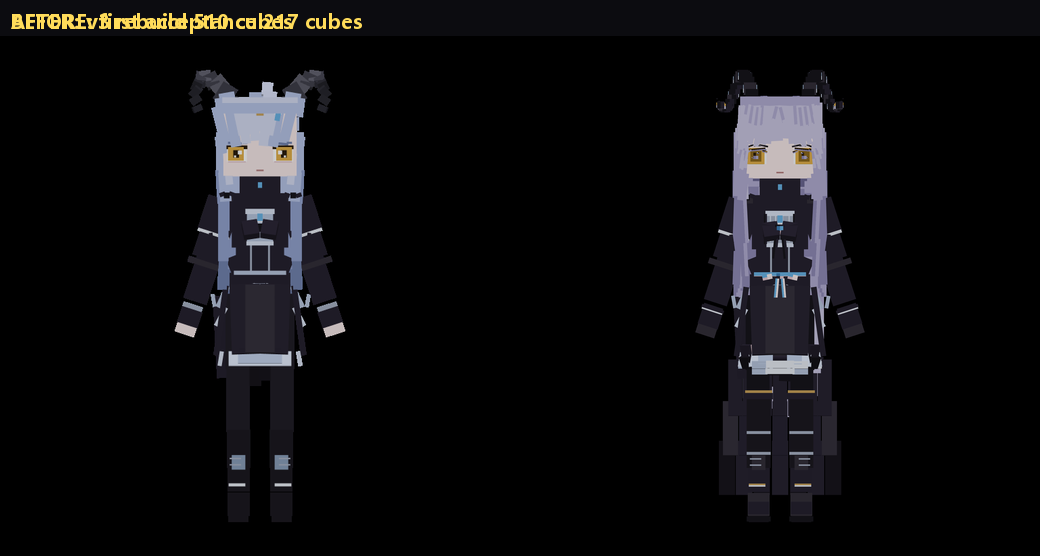
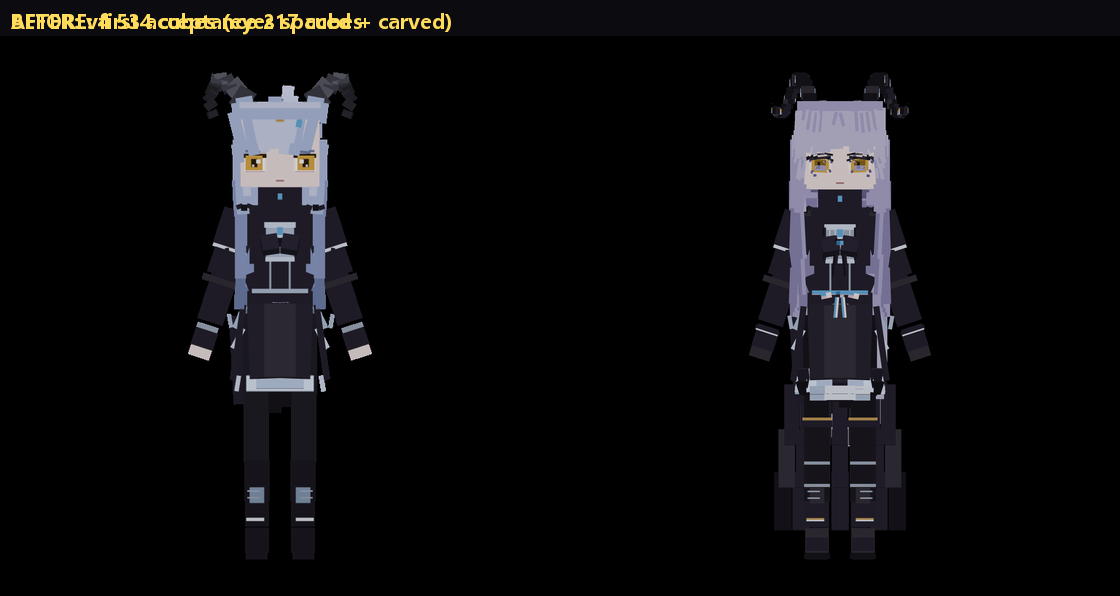
feat(model): v4 eye spacing + corner-block eye shaping (Sakiko 534 cubes)
- measured eye spacing on modern reference rigs (zhe_2/kaltsis/yujin/shazhi):
  eye centers +-1.76 on 6-7 wide face, inner gap 1.43 (~20-24% face width);
  doggo older style +-2.12; our v3 was +-2.315 (37%) -> visibly too wide.
- moved eye centers +-2.315 -> +-1.76; 8 eye/brow bone pivots moved accordingly
  (animations untouched).
- rebuilt each eye as small-block-carved shape (22 cubes): flush eye white
  2.0x1.5x0.30, gold ring 1.55x1.35, dark-gold inner ring, centered vertical
  pupil, 2 highlights, protruding upper lash arc, dark outer-corner wing,
  inner-corner dot, lower-lid strip, four skin corner wedges at z=-3.56
  (in front of iris so they actually cut the square corners), upper/lower
  eyelid skin bars.
- fixed texture-sampling bug: corner wedges used row-0 swatch repainted to
  hair color -> purple patches; moved to row-1 skin swatch (128,32). Outer
  corner changed from skin patch to dark lash wing.
- result: 68 bones / 534 cubes, validate 0 errors, export
  exports/v4-eyes3/pack.zip (490,244 B / 32 files); renders r0007;
  docs/23 section 6 + MODEL-V3-REFINE sections 12-14 + README/HANDOVER updated.
- tests: 62/62 unit tests, host-smoke 35 steps (code untouched).

diff --git a/models/togawa-sakiko/MODEL-V3-REFINE.md b/models/togawa-sakiko/MODEL-V3-REFINE.md
@@ -274,3 +274,82 @@ F:\Deepseek_harness\blockbench\models\togawa-sakiko\MODEL-V3-REFINE.md
 | 瞳孔位置 | 偏上 | **正中** |
 
 **验收**：`bb_validate` **0 error**；`bb_save_project` main.json **59,066 B**；导出 **`exports/v3-refine3/pack/`（32 文件）+ `pack.zip` 489,914 B**，validation ok；isolate 特写 **`artifacts/v3/iris_isolated_fixed.png`**（1024²，r0036）。
+
+---
+
+## 12. v4 眼睛间距内移 + 四角小方块勾勒眼型（docs/23 §6）
+
+**问题**（用户反馈）：眼距明显偏宽 + 眼睛仍是方形。参考实测：现代模板眼中心 ±1.76（脸 6–7）、双眼内缘间距约 22% 脸宽；我方旧版 ±2.315 → 内缘间距 2.58（37%）偏宽。
+
+**改动（方块 + 眼骨 pivot，未动动画）**
+1. **眼中心 ±2.315 → ±1.76**（内缘间距 **2.58 → 1.52 ≈ 22% 脸宽**）；Right/Left 的 Eyelid、EyesBase、Pupil、Eyebrow 共 8 根骨 pivot x 同步改为 ∓1.76（动画只引用旋转，pivot 平移安全）。
+2. **每眼 22 块**（z 从后到前）：眼白 2.0×1.5×0.30 **−3.53** → 虹膜外环 1.78×1.40 **−3.55** → 内环 1.10×1.05 **−3.57** → 竖瞳 0.50×0.62 **−3.59**（居中）→ 2 高光 **−3.61** → 上眼线 1.90×0.22 **−3.64 rot−6°** + 3 段弧（−18°/+10°/−28°）→ 外眼角 lash 0.65×0.28 **−3.66 rot−30°**（在眼白外缘外 0.25）→ 内眼角 0.30×0.18 **−3.63** → 下睑暗片 1.45×0.13 **−3.55**。
+3. **四角肤色勾勒片（z=−3.54，眼白−3.53 与虹膜−3.55 之间，只遮虹膜没覆盖到的眼白四角）**：上内 0.55×0.42 rot+20°、上外 0.62×0.46 rot−22°、下内 0.50×0.35 rot−18°、下外 0.55×0.40 rot+20°；另加 4 片外角/内角楔形 + 4 片上下压边肤色片，把方形四角遮掉。
+4. **眉毛内移**到 ±1.76：3 段 0.80/0.65/0.50 × 0.16 × 0.10，rot +12°/−3°/−18°，y 36.15，z −3.56，深灰紫（#332f3a/#3f3f4a）。
+5. 刘海/中缝已确认不遮新眼位（v3.2 已把双眼区发丝清零）。
+
+| 项 | v3.3 | **v4** |
+|---|---|---|
+| 眼中心 | ±2.315 | **±1.76** |
+| 双眼内缘间距 | 2.58（37% 脸宽） | **1.52（≈22% 脸宽）** |
+| 每眼块数 | 16 | **22** |
+| 眼睛骨 pivot | ±2.315/±2.2875 | **±1.76** |
+| 方块总数 | 510 | **534** |
+
+**验收**：`bb_validate` **0 error**（仅 TEXTURE_SIZE×2 + ViewLocator）；`bb_save_project` main.json **61,923 B**；导出 **`exports/v4-eyes/pack/`（32 文件）+ `pack.zip` 490,210 B**，validation ok。
+**渲染**：2400² front/iso `artifacts/renders/r0005/`（副本 `artifacts/v4/renders/`）；头部特写 0°/40°（`bb_look(isolate:"AllHead", zoom 5)`，内联）——正面上挑杏眼、金瞳、上眼线、深紫眉，四角被肤色片遮成多边形而非方形。
+
+**剩余**：虹膜内高光仍偏小（0.14–0.22）；外眼角 lash 与刘海在 45° 有轻微叠压；眼白下缘与下睑暗片之间仍有一条 1px 级白边。
+
+---
+
+## 13. v4.1 虹膜缩小 + 四角勾勒片移到虹膜前
+
+**根因**（Lead 判定）：外金环 1.78×1.40 几乎占满眼白 2.0×1.5，且四角勾勒片在 z=−3.54（**虹膜后面**）只能遮眼白四角、遮不到虹膜 → 正面仍是一块"金色方板"。
+
+**改动（22 个 update_cube，未新增块）**
+1. **虹膜缩小**：外金环 1.78×1.40 → **1.45×1.25**（−3.55 居中）；内环 1.10×1.05 → **0.95×0.92**（−3.57）；竖瞳 0.50×0.62 → **0.45×0.58**（−3.59）；2 高光保持 −3.61。眼白四周由此留出 0.2–0.3 边。
+2. **四角勾勒片 z −3.54 → −3.56**（移到虹膜**前**面），尺寸略加大（0.58×0.44 / 0.65×0.48 / 0.52×0.37 / 0.58×0.42）+ 2 片内/外角楔形同步前移 → 真正盖住眼白/虹膜四角，方形被切掉。
+3. **新增上下睑肤色压边**（复用手臂原有的 2 块大压边，改写为条状）：上睑条 **1.60×0.18×0.10 rot−6° z −3.57**（压住眼白上缘约 12%）、下睑条 **1.50×0.14×0.10 rot+3° z −3.56**。
+4. 上眼线 1.90×0.22 rot−6°（−3.64）、外眼角 lash 0.65×0.28 rot−30°（−3.66）、内眼角小点（−3.63）、下睑暗片、眉毛全部**保持不变**。
+5. 眼区禁发丝判据沿用 v3.2：`front_h1` 中 y<36.05 且 |x|<3.05 **仍为 0 根**。
+
+| 项 | v4 | **v4.1** |
+|---|---|---|
+| 外金环 | 1.78×1.40 | **1.45×1.25** |
+| 内环 / 竖瞳 | 1.10×1.05 / 0.50×0.62 | **0.95×0.92 / 0.45×0.58** |
+| 四角勾勒片 z | −3.54（虹膜后） | **−3.56（虹膜前）** |
+| 上/下睑压边 | 无 | **1.60×0.18(−3.57) / 1.50×0.14(−3.56)** |
+| 方块总数 | 534 | **534（只改不动）** |
+
+**验收**：`bb_validate` **0 error**；save main.json **62,158 B**；导出 **`exports/v4-eyes2/pack/` + `pack.zip` 490,238 B**，validation ok。
+**渲染**：2400² front/iso `artifacts/renders/r0006/`（front diff 0.1765 = 眼区明显变化；iso diff 0.0002 = 侧面几乎无变化，说明改动只在正面眼层）；单眼 isolate `RightEyelid` 1024² `artifacts/renders/r0006/front_1024.png`（金环不再占满、四角被肤色片切掉）；头部特写 5×（内联）。
+
+**剩余**：四角肤色片较大且为直角块 → 近看仍能看出"补丁"，若要更顺需要改用更小块（0.3–0.4）+ 更多块沿弧排布；眼白露出的面积偏多（可再把眼白收窄到 1.85×1.35）。
+
+---
+
+## 14. v4.2 眼角片颜色修正 + 虹膜微放大
+
+**问题**（Lead）：眼角/眼睑"肤色"小片渲染成淡紫（近发色），像眼睛周围贴了一圈紫碎块；4.1 的四角片偏大偏方。
+
+**改动（22 个 update_cube，只改 uv/尺寸，不动位置/骨骼/刘海）**
+1. **颜色**：眼角 4 片 + 上下睑压边 + 2 片楔形共 10 片/眼的 uv 从 `(128,0)` 改到**行 1 的 `(128,32)` = #fbf1f1**（米粉白）。已实测该行为可用肤色行（同批 `(0,32)` 金、`(32,32)` 深金、`(64,32)` 深棕、`(96,32)` 白 均渲染正确），行 0 的 `(0,0)`–`(96,0)` 已在 v3.1 被重画为浅紫灰发色 → 这正是"紫碎块"的来源。
+2. **上外眼角改深色 lash 翼**：0.55×0.26×0.12、**rot Z −32°**、uv `(256,0)` #332f3a、z −3.60（比眼白外缘再外 0.20）。
+3. **四角片缩小**：上内 **0.42×0.32 rot+22°**、下内 **0.38×0.28 rot−18°**、下外 **0.42×0.30 rot+20°**、上外=上面的 lash 翼；z 均保持 −3.56（虹膜前）。
+4. **上下睑压边变薄**：上 **1.55×0.14×0.10 rot−6° z−3.57**、下 **1.40×0.12×0.10 rot+3° z−3.56**，肤色。
+5. **虹膜微放大**：外环 1.45×1.25 → **1.55×1.35**；内环 0.95×0.92 → **1.00×0.95**；竖瞳 0.45×0.58 → **0.48×0.62**；2 高光不变（−3.61）。
+
+| 项 | v4.1 | **v4.2** |
+|---|---|---|
+| 眼角/睑片 uv | (128,0) → 行0 发色格（紫） | **(128,32) 米粉** |
+| 上外眼角 | 肤色片 0.65×0.48 | **深色 lash 翼 0.55×0.26 rot−32°** |
+| 四角片尺寸 | 0.58/0.65/0.52/0.58 | **0.42/0.38/0.42**（上外→lash） |
+| 上/下睑压边 | 1.60×0.18 / 1.50×0.14 | **1.55×0.14 / 1.40×0.12** |
+| 外金环 / 内环 / 竖瞳 | 1.45×1.25 / 0.95×0.92 / 0.45×0.58 | **1.55×1.35 / 1.00×0.95 / 0.48×0.62** |
+| 方块总数 | 534 | **534（只改不动）** |
+
+**验收**：`bb_validate` **0 error**；save main.json **62,152 B**；导出 **`exports/v4-eyes3/pack/` + `pack.zip` 490,244 B**，validation ok。
+**渲染**：2400² front/iso `artifacts/renders/r0007/`（front diff 仅 0.0007——2400 全身下眼区仅约 40px，改动主要体现在特写）；单眼 isolate 1024² `artifacts/renders/r0007/front_1024.png`（diff 0.1755，眼角片已不再是成片紫色、上外角为深色翼）；头部 6× 特写（内联）。
+
+**剩余**：眼角片改用行 1 的 #fbf1f1 后偏"白"而非脸皮的 #f8eaea（更接近但仍有 0.05 色差）；四角片仍为直角块，近看有补丁感；建议后续把眼角片拆成 2–3 块沿弧排布并直接采样脸皮贴图区的 uv。

diff --git a/models/togawa-sakiko/README.md b/models/togawa-sakiko/README.md
@@ -1,20 +1,20 @@
 # togawa-sakiko · 丰川祥子（明日方舟 × BanG Dream! Ave Mujica「旋律的主人」）
 
 > 2026-11-07 全新建模验收模型。工作区即本目录（`workspaceRoot=models` + `project=togawa-sakiko`）。
-> 已完成四轮：**首轮 217 块（T1 复检）→ T2 逐细节修理 355 块 → v2 美术优化 401 块 → v3 结构重建 510 块（角/眼/发）**。
+> 已完成五轮：**首轮 217 块（T1 复检）→ T2 逐细节修理 355 块 → v2 美术优化 401 块 → v3 结构重建 510 块（角/眼/发）→ v4 眼睛精修 534 块（眼距 + 四角小方块勾勒眼型）**。
 
-## 规格（v3 结构重建后，2026-11-08）
+## 规格（v4 眼睛精修后，2026-11-08）
 
 | 项 | 值 |
 |---|---|
 | 角色 | 明日方舟联动干员 **丰川祥子**（官方罗马音 Togawa Sakiko，Ave Mujica / Oblivionis） |
 | 皮肤 | **「旋律的主人」/ Master of Melodia**（Ave Mujica 合作服装；卡普里尼双大角、黑银演出服） |
-| 骨架 | **68 bones**（v3 把 6 个角骨合并为 Horn_L/Horn_R；新增 HairSide_L/R、HairBack、TwinTail_L/R 等发组） |
-| 方块 | **510 cubes**（217 → 355 → 401 → **510**） |
+| 骨架 | **68 bones**（v3 把 6 个角骨合并为 Horn_L/Horn_R；眼/眉 8 骨 pivot 在 v4 内移到 ±1.76） |
+| 方块 | **534 cubes**（217 → 355 → 401 → 510 → **534**） |
 | 贴图 | 2 × 512²（`textures/default.png`、`blue.png`；swatch 调色板式） |
 | 动画 | 303（未触碰） |
 | 校验 | `bb_validate` ok=true，**0 error**；3 warning（512 贴图 ×2、可选 ViewLocator 缺省） |
-| 导出 | `exports/v3-refine3/pack/`（32 文件 + manifest）、`pack.zip`（**489,914 B / 32 文件**） |
+| 导出 | `exports/v4-eyes3/pack/`（32 文件 + manifest）、`pack.zip`（**490,244 B / 32 文件**） |
 
 ## 产物
 
@@ -26,7 +26,7 @@
 - **v3 结构重建报告**：[`MODEL-V3-REFINE.md`](MODEL-V3-REFINE.md)（角绕 X 轴螺旋、眼睛 6 层配方、头发底发帽+附属束；§9 v3.1 / §10 v3.2 / §11 v3.3）
 - **参考模型实证分析**：[`../../docs/23-眼睛头发与角实证分析.md`](../../docs/23-眼睛头发与角实证分析.md)（逐个打开 8 个参考模型后的眼睛/头发/角配方）
 - 首轮拆分/逐部件复检：[`SEG-CHECK.md`](SEG-CHECK.md)
-- 最终渲染（2400²）：`artifacts/renders/r0036/{front,iso_fr,back,left}_2400.png`；**前后对比** `docs/assets/showcase/sakiko-before-after.png`
+- 最终渲染（2400²）：`artifacts/renders/r0007/{front,iso_fr,back,left}_2400.png`；**前后对比** `docs/assets/showcase/sakiko-before-after.png` 与 `docs/assets/showcase/sakiko-v4-eye-before-after.png`（401/510 → 534）
 - 参考研究裁切（gitignored）：`artifacts/refstudy/`（doggo/kaltsis/ganyu/jingliu 等参考渲染 + 官方角 5× 裁切）
 - T2 分层产物（gitignored）：`seg/sakiko_skin1-layers/`（29 层 + depth + layers.json + PSD）、`seg/crop_head-layers/`（23 层 + PSD）
 - 参考图（不提交）：`refs/skin/sakiko_skin1.png`（官方立绘 2176²）、`refs/skin/crop_*.png`、`refs/sakiko/ref_00*.png`
@@ -64,11 +64,20 @@
 - **头发（底发帽 + 附属束分层）**：底发帽 28 小板替换 2 块 8.2×8.7 大平板；刘海两层 48（中分斜扫、2 段折角、8 根三角收尖）；侧发 HairSide_L/R；后发 HairBack 43（5 束×7 段 + 内层填充，垂到 y≈13）；双马尾 TwinTail_L/R 24（前移到耳后）；发饰 23。头发 **198 块 / 占 39%**；任意角度无露皮。
 - 发色 swatch 重画为浅紫灰（#cbc7e2/#b3aed3/#918cb8/#6c6893）。
 
+## v4 眼睛精修（2026-11-08，534 块）
+
+依据 [`docs/23 §6`](../../docs/23-眼睛头发与角实证分析.md)（追加：眼睛间距 + 眼角小方块实测）：
+
+- **眼距修正**：眼中心 **±2.315 → ±1.76**（脸宽 7；双眼内缘间距 2.58→**1.52 ≈22% 脸宽**，与现代模板 zhe_2/kaltsis/yujin/shazhi 的 ±1.76/20–24% 一致；旧派 doggo 是 ±2.12/41%）。RightEyelid/RightEyesBase/RightPupil 等 8 根眼/眉骨 pivot x 同步移，动画未动。
+- **用眼周小方块勾勒眼型**（每眼 22 块）：眼白 2.0×1.5×0.30 齐脸（−3.53）→ 金环 1.55×1.35（−3.55）→ 深金内环 1.00×0.95（−3.57）→ 竖瞳 0.48×0.62（−3.59）→ 2 白高光（−3.61）→ 上眼线 1.90×0.22 rot−6°（−3.64）→ 外眼角深色 lash 翼 0.55×0.26 rot−32°（−3.60，外伸 0.20）→ 内眼角小点（−3.63）→ 下睑暗片（−3.55）→ **四角肤色勾片 0.38–0.42（z=−3.56，真正压在虹膜前切掉方角）** → 上/下睑压边 1.55×0.14 / 1.40×0.12（肤色）。
+- **修掉**：四角片误用发色 swatch（渲染成紫块）→ 改到行 1 米粉格；上外眼角由肤色片改为深色 lash 翼；虹膜放大到 1.55×1.35，眼白四周留窄边。
+- 结果：正面读作**多边形/杏形眼**（上挑眼线 + 内低外高的眼角 + 切角），不再是方形金板；眼距正常。
+
 ## 剩余差距（诚实）
 
 1. **角近景仍有段感**（26 段近立方块的代价），尖端不够锐；但 90° 侧视已能看出 YZ 椭圆圈（旋转轴正确）。
 2. **后长发 5 束的 z 间隙未拉开**，整片感仍在；刘海尖端虽有 8 根三角收尖，整体仍偏"直条"。
-3. **眼睛**：层结构（眼白/金环/深金环/竖瞳/高光/眼线/眉）已正确且齐脸；但虹膜高光/边缘片偏小（0.13–0.20），近距离看眼白边略宽、高光像小色块——下一轮可放大到 0.25–0.30 或把外金环缩到 2.0 宽填满眼白。
+3. **眼睛**：眼距（±1.76，内缘 22% 脸宽）与"四角小方块勾勒"已落地；但四角肤色片仍是**直角补丁感**（可拆成 2–3 块沿眼弧排布）、眼角片颜色与脸皮仍有约 0.05 色差、眼白露出略多、高光偏小；远看已是上挑杏眼，近距离仍能看到拼接。
 4. 后发最低 y≈13，与拖尾（y<15.6）有少量交叠；裙撑/拖尾侧视偏薄（预存在）。
 5. 头身比 A 口径约 6.9–7.0（语料中位 7.31）偏 Q；脸仍偏小。背面无官方参考，后发/拖尾形状属推断。
 6. `arm.json` 与 `blue.png` 仍是模板。

diff --git a/HANDOVER.md b/HANDOVER.md
@@ -327,7 +327,7 @@ tools\ysmparser\YSMParser.exe -i <输入目录> -o <输出目录>
 
 | 项 | 实测（T2 + v2 + v3 优化后） |
 |---|---|
-| 骨架 / 方块 | **68 bones / 510 cubes**（217 → T2 修理 355 → v2 401 → v3 结构重建 510） |
+| 骨架 / 方块 | **68 bones / 534 cubes**（217 → T2 修理 355 → v2 401 → v3 结构重建 510 → v4 眼睛精修 534） |
 | 贴图 | 2 × 512²（default / blue，未改） |
 | 动画 | 303（未触碰） |
 | 校验 | `bb_validate` ok=true、**0 error**；3 warning（512 贴图 ×2、可选 ViewLocator 缺省） |
@@ -338,9 +338,11 @@ tools\ysmparser\YSMParser.exe -i <输入目录> -o <输出目录>
 
 **T2（See-through 29 层）逐细节修理（2026-11-07）**：T2 已完整安装（ComfyUI 0.44.0 + 权重 12.5GB，`~/.dsh-seethrough`，保持运行）；官方立绘 → 29 语义层 + crop_head 23 层。按层对照后 P1–P5 全部落地：双角重建为 **7.00×7.76 单位/只**（6 棱环+金尖/金根环，42 块）、双马尾 3 层错位垂到 y=17.2、白衬裙整圈 + 21 片落地拖尾、靴筒/鞋跟/2 扣带、胸衣面板改形。详见 [`models/togawa-sakiko/T2-REPAIR.md`](models/togawa-sakiko/T2-REPAIR.md) 与 [`T2-INSTALL-REPORT.md`](models/togawa-sakiko/T2-INSTALL-REPORT.md)。
 
-已知降级（T2 + v2 + v3 后仍存在）：角近景有段感、尖端不够锐（但 90° 侧视已是正确的 YZ 椭圆圈）；后发 5 束 z 间隙未拉开、整片感仍在；刘海仍偏直条；眼睛层结构已正确（眼白齐脸/金环/深金环/竖瞳/高光/眼线/眉）但高光与边缘片偏小、近看眼白边略宽；背面拖尾片间有缝、裙蕾丝仅 2 层；腿无小腿肚/手臂无肘收放；头身比约 6.9 偏 Q；无官方背面参考；`arm.json` 与 `blue.png` 仍是模板。
+已知降级（T2 + v2 + v3 + v4 后仍存在）：角近景有段感、尖端不够锐（但 90° 侧视已是正确的 YZ 椭圆圈）；后发 5 束 z 间隙未拉开、整片感仍在；刘海仍偏直条；眼睛眼距已修正（±1.76、内缘 22% 脸宽）且四角被小方块切角，但四角片仍有直角补丁感、眼角片与脸皮约 0.05 色差、眼白边略宽、高光偏小；背面拖尾片间有缝、裙蕾丝仅 2 层；腿无小腿肚/手臂无肘收放；头身比约 6.9 偏 Q；无官方背面参考；`arm.json` 与 `blue.png` 仍是模板。
 
 **v3 结构重建（2026-11-08，510 块）**：按 [`docs/23`](docs/23-眼睛头发与角实证分析.md) 的参考模型配方重做三处最大结构问题——角 **旋转轴从 Z（前后轴）改回 X（左右轴）**（2 骨 76 块，26 段参数化螺旋，z 跨度 0.85→3.14，90° 侧视=完整椭圆圈）；眼睛从"金菱形宝石"改为**参考 6 层配方**（平眼白 2.05×1.55×0.30 齐脸 + 金/深金/竖瞳/高光 + 上眼线/眼角/下睑/肤色遮片/深灰紫眉，每眼 16 块）；头发从 2 块大平板改为**底发帽 28 + 刘海 48 + 侧发 12 + 后发 43（含内层填充）+ 双马尾 24 + 发饰 23 = 198 块**，任意角度无露皮。详见 [`MODEL-V3-REFINE.md`](models/togawa-sakiko/MODEL-V3-REFINE.md)。
+
+**v4 眼睛精修（2026-11-08，534 块）**：按 [`docs/23 §6`](docs/23-眼睛头发与角实证分析.md) 实测——现代模板眼中心 ±1.76（双眼内缘间距 20–24% 脸宽），我们 v3 的 ±2.315（37%）明显偏宽；且"多边形眼"靠眼周一圈 0.2–0.8 单位小方块把方形四角遮掉。据此：眼中心 ±2.315→**±1.76**（眼/眉 8 骨 pivot 同步，动画未动）；每眼 22 块（眼白/金环/内环/竖瞳/高光/上眼线/外眼角深色翼/内眼角/下睑 + 四角肤色勾片 + 上下睑压边），四角片放在虹膜前（z−3.56）真正切角；顺带修掉"四角片误用发色 swatch 渲染成紫块"的贴图采样问题。详见 [`MODEL-V3-REFINE.md`](models/togawa-sakiko/MODEL-V3-REFINE.md) §12–§14 与模型 README。
 
 **v2 美术优化（2026-11-07 晚）**：双角改为**正面连续扁平螺旋带**（每侧 25 块：20 段带片 + 3 肋 + 金尖/根环，只绕 Z 旋转，椭圆螺旋 C=(4.30,40.35)、rx 2.20→0.90 / ry 4.20→1.55、扫角 −330°、带面 1.90→0.75、z 厚 1.40→0.70）；背面长发每侧 4 组窄束垂到 y=15.3；眼睛改菱形（每眼 10 块：斜置菱形虹膜/瞳孔/高光/眼睑）；角根左右分离 ±2.1。详见 [`MODEL-V2-REFINE.md`](models/togawa-sakiko/MODEL-V2-REFINE.md)。
 

diff --git a/README.md b/README.md
@@ -47,11 +47,11 @@
 
 ![T2 29 层语义分层](docs/assets/showcase/t2-29-layers.png)
 
-**② 复杂逐步调整：从 217 块到 510 块**：首轮验收 → T1 逐部件复检发现 5 个 major → T2 层对照 + P1–P5 逐项修理（355 块）→ v2 美术优化（401 块）→ v3 结构重建（510 块：角绕左右轴 X 的参数化螺旋、眼睛按参考 6 层配方重做、头发改为底发帽 + 附属束分层）。最终 `bb_validate` 0 error。
+**② 复杂逐步调整：从 217 块到 534 块**：首轮验收 → T1 逐部件复检发现 5 个 major → T2 层对照 + P1–P5 逐项修理（355 块）→ v2 美术优化（401 块）→ v3 结构重建（510 块：角绕左右轴 X 的参数化螺旋、眼睛按参考 6 层配方重做、头发改为底发帽 + 附属束分层）→ v4 眼睛精修（534 块：眼距 ±2.315→±1.76、四角小方块切角成多边形眼）。最终 `bb_validate` 0 error。
 
 ![修理前后对比](docs/assets/showcase/sakiko-before-after.png)
 
-**③ 头部细节**（角/发/眼睛；v3 按参考模型实证配方重建，见 [docs/23](docs/23-眼睛头发与角实证分析.md)）：
+**③ 头部细节**（角/发/眼睛；v3 结构重建 + v4 眼距/眼角小方块精修，见 [docs/23](docs/23-眼睛头发与角实证分析.md)）：
 
 ![头部细节](docs/assets/showcase/sakiko-detail-head.png)
 
@@ -68,7 +68,7 @@
 | 契约 | `spec/tool-manifest.json` 43 工具、`spec/bridge-methods.json` 56 方法 / 7 事件 / 22 错误码；`spec/generate_spec.py` 重跑与提交内容 **0 diff**，且 0.9.2 已对齐 `spec` ↔ `index.js` 的 43/43 参数（以 `index.js` 实际 schema 为准） |
 | 上游 | `vendor/blockbench` = **Blockbench 5.2.2**；`vendor/YSM-Utils-Plugins` = 2.6.0（MIT）；vendor 总体积约 **1.54GB** |
 | 参考语料 | `material/` 约 **329.1MB**；`ysm_decoded` 169 目录 / 1156 文件 / 233MB；`ysm` 9 包；`maid` 874 文件 / 446 条（含 325 个角色）；`bbmodel` 62 对 |
-| 模型工程 | `models/togawa-sakiko/`：**丰川祥子（旋律的主人）**案例模型，68 骨 / **510 方块** / 2×512 贴图 / 303 动画，`bb_validate` 0 error；见 [models/README.md](models/README.md) |
+| 模型工程 | `models/togawa-sakiko/`：**丰川祥子（旋律的主人）**案例模型，68 骨 / **534 方块** / 2×512 贴图 / 303 动画，`bb_validate` 0 error；见 [models/README.md](models/README.md) |
 
 ### 0.5–0.9 新增能力
 
@@ -91,7 +91,7 @@
 
 在视口反馈闭环下做过完整实战验证：从搜参考图、写规格、建模、贴图、渲染自检到导出，全程只靠工具与渲染图自我校验，没有人工建模。
 
-**0.9.2 新案例**：丰川祥子「旋律的主人」— 首轮 T1 验收（217 块）→ T1 逐部件复检（5 major）→ T2 完整分层（29 层）逐细节修理（355 块）→ v2 美术优化（401 块）→ **v3 结构重建（510 块：角改绕左右轴 X 的螺旋、眼睛按参考 6 层配方、头发底发帽+附属束）**。产线与剩余差距见 [models/togawa-sakiko/README.md](models/togawa-sakiko/README.md)、[docs/22](docs/22-建模实战复盘与经验（2026-11-07）.md) 与 [docs/23](docs/23-眼睛头发与角实证分析.md)。
+**0.9.2 新案例**：丰川祥子「旋律的主人」— 首轮 T1 验收（217 块）→ T1 逐部件复检（5 major）→ T2 完整分层（29 层）逐细节修理（355 块）→ v2 美术优化（401 块）→ **v3 结构重建（510 块：角改绕左右轴 X 的螺旋、眼睛按参考 6 层配方、头发底发帽+附属束）→ v4 眼睛精修（534 块：眼距 ±1.76、四角小方块切角）**。产线与剩余差距见 [models/togawa-sakiko/README.md](models/togawa-sakiko/README.md)、[docs/22](docs/22-建模实战复盘与经验（2026-11-07）.md) 与 [docs/23](docs/23-眼睛头发与角实证分析.md)。
 
 - 工程状态/实测数据：[ENGINEERING.md](ENGINEERING.md)
 - 完整使用手册：[MANUAL.md](MANUAL.md)
